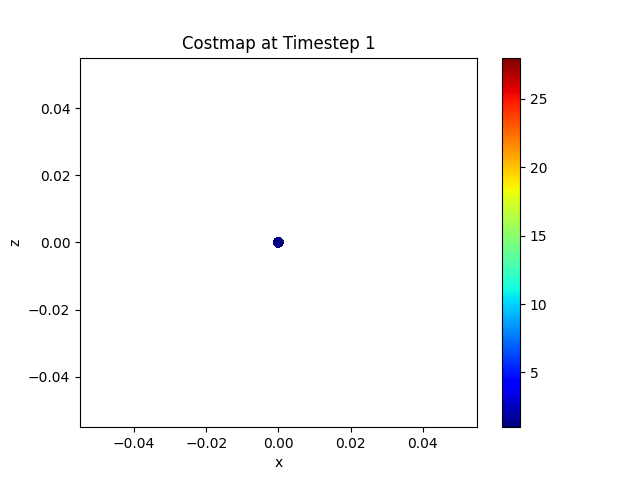
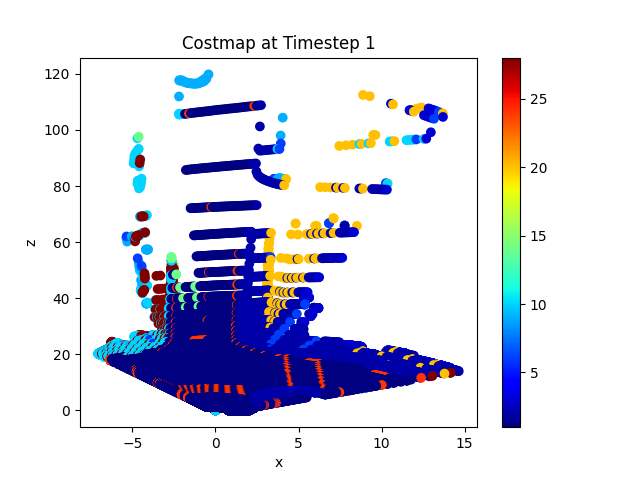
fix costmap problem

diff --git a/debug_navigation.py b/debug_navigation.py
@@ -28,7 +28,7 @@ def convert_image_to_depth(image_data):
     G = image_data[:, :, 1]
     B = image_data[:, :, 2]
  
-    scale_factor = 256
+    scale_factor = 868
     normalized = ((R + G * 256 + B * 256 * 256) / (256 * 256 * 256 - 1)) * 1000 * scale_factor
 
     return normalized
@@ -64,7 +64,7 @@ def calc_cartesian_image_data(rel_coords, depth_values):
     z_squared[z_squared < 0] = 0  # Set negative values to zero
     z = np.sqrt(z_squared)
 
-    return x, y, z
+    return x/4, y, z/3
 
 
 def filter_data(x, y, z):
